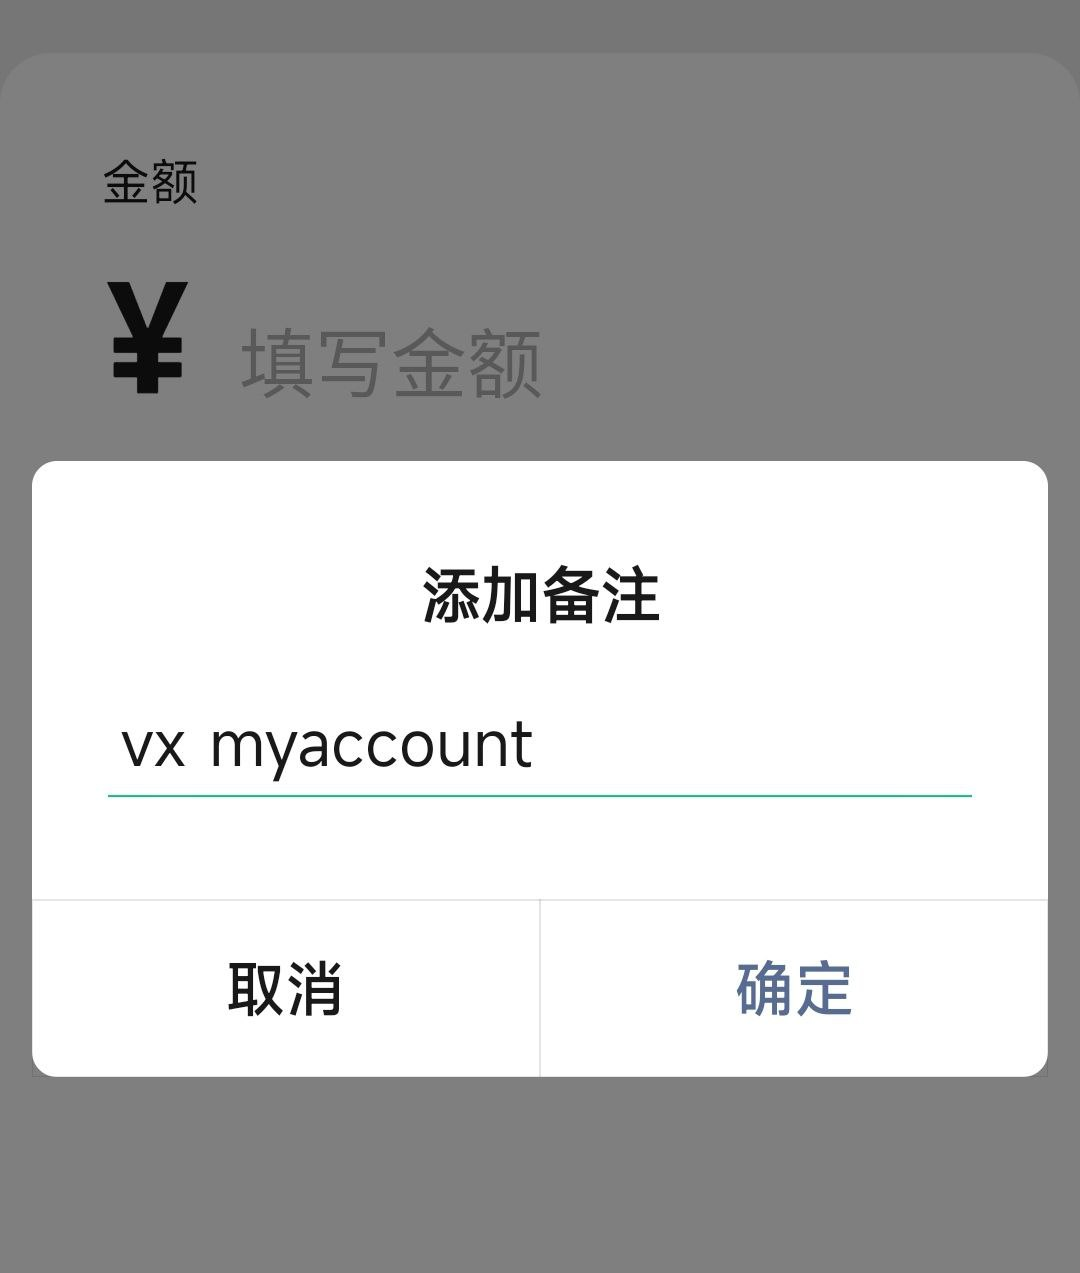
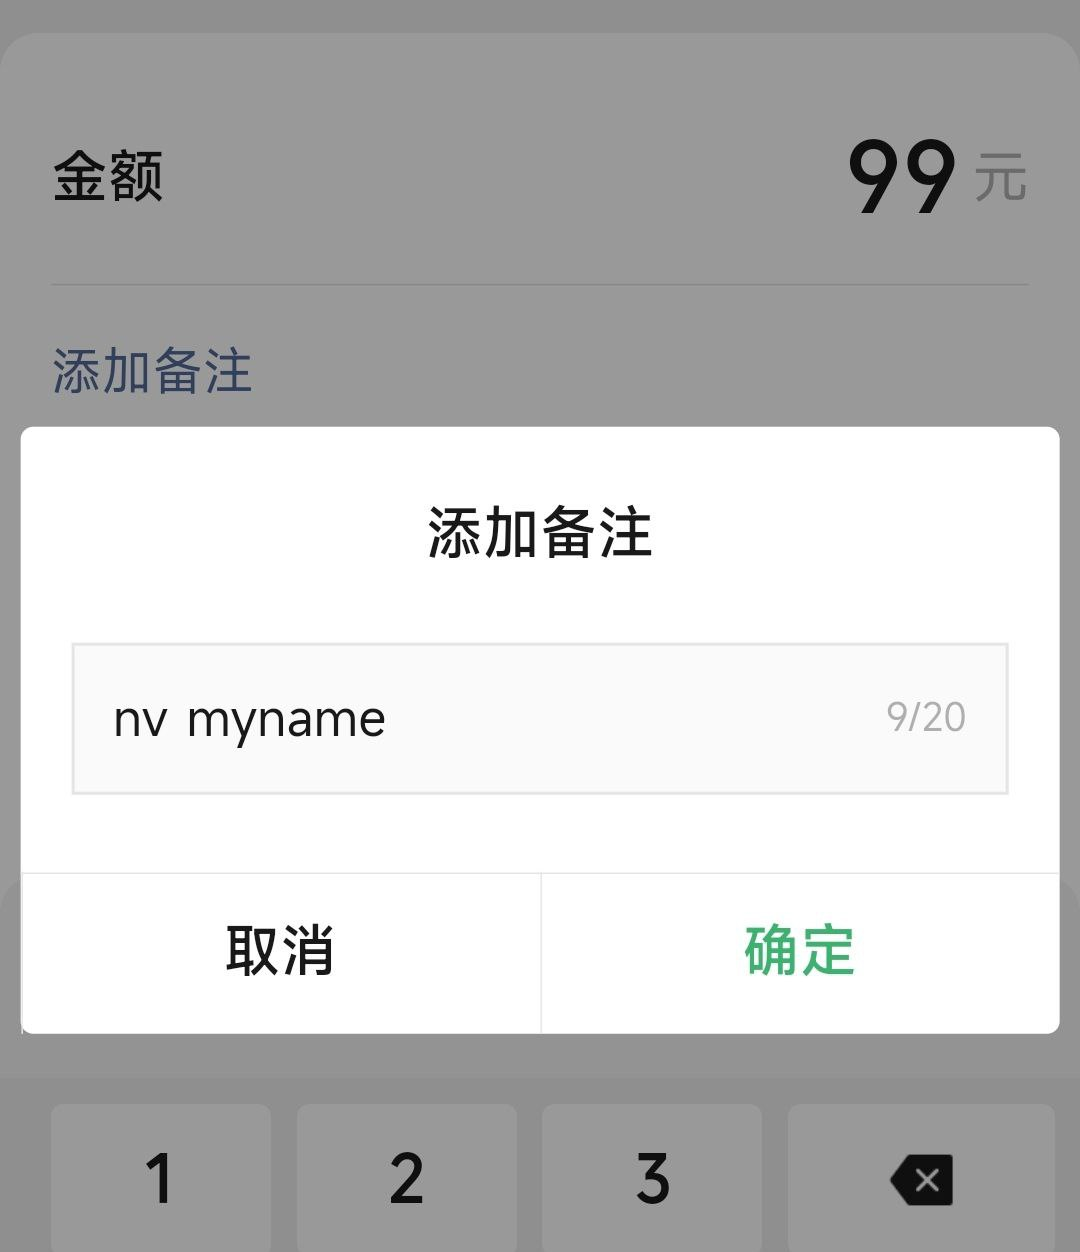
update payment

diff --git a/tpl-e2/home.html b/tpl-e2/home.html
@@ -360,13 +360,13 @@
 					<h5>人工充值通道</h5>
 					<img src="/static/img/wx_note.jpg" alt="添加备注" class="img-thumbnail mx-auto m-2"
 						style="height: 300px;">
-					<img src="/static/img/backup.jpg" alt="替代通道" class="img-thumbnail mx-auto m-2"
+					<img src="/static/img/wx_pay.png" alt="替代通道" class="img-thumbnail mx-auto m-2"
 						style="height: 300px;">
 				</div>
 				<hr>
-				<li>请在支付时添加备注（支付页面底部），<span class="text-red">备注内容</span>为 <span class="text-red">vx + 空格 + 账号名</span>，例如 <span class="text-red">vx yourname</span>。</li>
+				<li>请在支付时添加备注，<span class="text-red">备注内容</span>为 <span class="text-red">nv + 空格 + 账号名</span>，例如 <span class="text-red">nv myname</span>。</li>
 				<li>1 元 = 1 点数。工作时间 2 小时内到账。</li>
-				<li>如果在付款时忘记填写账号名，可以在之后找到订单，然后选择 “向收款方留言” 提供备注信息。</li>
+				<li>如果在付款时忘记填写备注，请通过邮件与我们取得联系进行补单。</li>
 				<hr>
 				<div>
 					<!-- <li class="text-red">活动：充值满 1000 点数额外赠送 300 点数。</li> -->

diff --git a/index.html b/index.html
@@ -15,7 +15,7 @@
     <script type="text/javascript" src="./tmpui.js"></script>
     <script type="text/javascript">
         var app = new tmpUI({
-            "version": 322,
+            "version": 323,
             "siteRoot": "/",
             "dynamicRouter": "route",
             "googleAnalytics": "UA-50345450-1",
